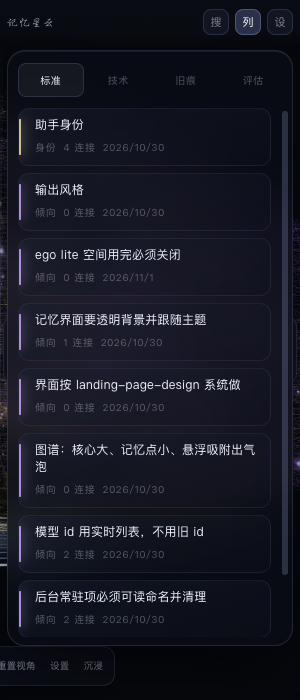
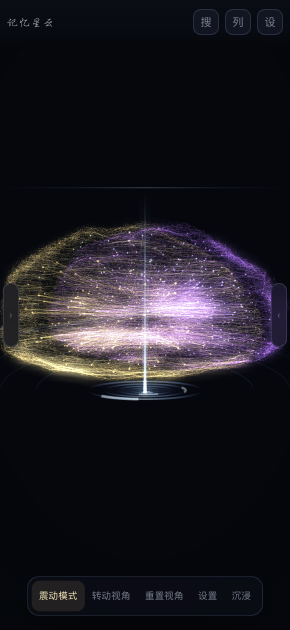
feat(panel): 默认只显示光脑，相机按窗口自适应
- 左右两栏默认收起（localStorage 里没有用户选择时），进来先看到完整的大脑
- 顶栏不再只在紧凑尺寸出现：只要两栏都收着就显示「记忆星云 · N 条记忆 + 搜/列/设」，
  大屏也一样，边缘把手同时保留
- 相机距离改成按包围盒反解：竖长窗口贴宽度、宽屏贴高度，两边都留 6~14% 余量，
  不再用固定的 distScale 插值；滚轮缩放改为独立系数（0.45x~2.6x），重置视角一并归位
- 非紧凑尺寸下不再自动展开两栏，打开后保持

diff --git a/ui/nebula.html b/ui/nebula.html
@@ -127,11 +127,11 @@ h1 em{font-style:normal;color:var(--gold-hi);
 #dock button.on{color:var(--gold-hi);background:rgba(255,197,107,.11)}
 
 /* ---------- 紧凑顶栏（小窗口 / 设置页 iframe） ---------- */
-#compact{position:fixed;z-index:11;left:0;right:0;top:0;height:44px;padding:0 12px;
+#compact{position:fixed;z-index:15;left:0;right:0;top:0;height:44px;padding:0 12px;
   display:none;align-items:center;gap:10px;
   background:linear-gradient(180deg,rgba(8,13,22,.92),rgba(8,13,22,.55) 70%,transparent);
   backdrop-filter:blur(10px);-webkit-backdrop-filter:blur(10px)}
-body.compact #compact{display:flex}
+body.rails-hidden #compact{display:flex}
 #compact .cb{display:flex;align-items:baseline;gap:8px;margin-right:auto;min-width:0}
 #compact .cb b{font-size:13px;font-weight:400;letter-spacing:.10em;
   font-family:"Xingkai SC","STKaiti",serif;color:#DCE7F7;white-space:nowrap}
@@ -705,7 +705,7 @@ function attrib(p, name) { return gl.getAttribLocation(p, name); }
    ============================================================ */
 const GROUP = { shellDots: null, shellLines: null, memLines: null, memDots: null, flow: null, rings: null, stars: null };
 const memNodes = [];   // {id,title,kind,x,y,z,size,col,deg,sal}
-const cam = { yaw: 0.13, pitch: 0.085, dist: 2.78, spin: true, spinSpeed: 0.11,
+const cam = { yaw: 0.13, pitch: 0.085, zoom: 1, spin: true, spinSpeed: 0.11,
   yawTarget: null, shake: 0, pulse: 1 };
 let hovered = null, selected = null, query = '', activeKinds = null, showRetired = false;
 let projScale = 1000, W = 1, H = 1, DPR = 1;
@@ -1056,15 +1056,15 @@ function autoFit() {
   if (compact) {
     if (!uiTouched.right && !ui.right) { ui.right = true; changed = true; }
     if (!uiTouched.left && !ui.left) { ui.left = true; changed = true; }
-  } else {
-    if (!uiTouched.right) { const want = w < 1000; if (want !== ui.right) { ui.right = want; changed = true; } }
-    if (!uiTouched.left) { const want = w < 820; if (want !== ui.left) { ui.left = want; changed = true; } }
   }
+  // 非紧凑尺寸下不再自动展开两栏：默认就是只显示光脑，
+  // 由用户从顶栏或边缘把手打开，打开后一直保持。
   if (changed) applyCollapse();
   const st = document.querySelector('#cstat');
   if (st) st.textContent = memNodes.filter((m) => m.id !== '__me__').length + ' 条记忆';
 }
-const layout = { shiftX: 0, distScale: 1, dist: 2.78, tShiftX: 0, tDistScale: 1 };
+const BRAIN_W = 2.22, BRAIN_H = 1.98;   // 含光环与余量的包围盒（世界单位）
+const layout = { shiftX: 0, dist: 3.2, tShiftX: 0, tDist: 3.2 };
 
 function updateLayout() {
   const L = document.querySelector('#left');
@@ -1075,10 +1075,14 @@ function updateLayout() {
   const rw = hideR ? 0 : (R && R.offsetWidth ? R.offsetWidth + 20 : 0);
   const avail = Math.max(300, W - lw - rw);
   layout.tShiftX = ((lw + (W - rw)) / 2 - W / 2) / (W / 2);
-  // 侧栏越少，画面越开阔；两个基准点：双栏 1.22、全宽 1.39
-  const fill = clamp((avail / W - 0.5) / 0.5, 0, 1);
-  // 小窗口里画面本来就只有几百像素，再拉远就看不见了
-  layout.tDistScale = ui.compact ? (1.02 + 0.14 * fill) : (1.22 + 0.17 * fill);
+  // 直接按"大脑包围盒刚好放进可用区域"反解相机距离：
+  // 竖长窗口按宽度贴边，宽屏按高度贴边，两边都留一点余量。
+  const availW = Math.max(240, W - lw - rw);
+  const availH = Math.max(200, H);
+  const projCss = H / (2 * Math.tan((38 * Math.PI / 180) / 2));
+  const dW = (BRAIN_W * projCss) / (availW * 0.94);
+  const dH = (BRAIN_H * projCss) / (availH * 0.86);
+  layout.tDist = Math.max(1.6, Math.max(dW, dH));
   const root = document.documentElement;
   root.style.setProperty('--scene-shift', (layout.tShiftX * W / 2).toFixed(1) + 'px');
   root.style.setProperty('--rail-right', (hideR ? 0 : (R && R.offsetWidth ? R.offsetWidth + 20 : 0)) + 'px');
@@ -1088,6 +1092,7 @@ function applyCollapse() {
   document.body.classList.toggle('right-collapsed', ui.right);
   document.body.classList.toggle('focus-mode', ui.focus);
   document.body.classList.toggle('compact', ui.compact);
+  document.body.classList.toggle('rails-hidden', ui.left && ui.right && !ui.focus);
   const cl = document.querySelector('#cList'), cs = document.querySelector('#cSearch');
   if (cl) cl.classList.toggle('on', !ui.right);
   if (cs) cs.classList.toggle('on', !ui.left);
@@ -1108,9 +1113,8 @@ function mvpNow() {
   // 相机随侧栏状态平滑过渡，避免跳变
   const k = clamp((state.dt || 0.016) * 6.5, 0.02, 1);
   layout.shiftX += (layout.tShiftX - layout.shiftX) * k;
-  layout.distScale += (layout.tDistScale - layout.distScale) * k;
-  const dist = cam.dist * layout.distScale;
-  layout.dist = dist;
+  layout.dist += (layout.tDist - layout.dist) * k;
+  const dist = layout.dist * (cam.zoom || 1);
   const jx = cam.shake ? Math.sin(performance.now() * 0.0013) * cam.shake : 0;
   const jy = cam.shake ? Math.cos(performance.now() * 0.0009) * cam.shake * 0.6 : 0;
   viewMatrix = M4.mul(M4.trans(0, 0, -dist), M4.mul(M4.rotX(cam.pitch + jy), M4.rotY(cam.yaw + jx)));
@@ -1451,7 +1455,7 @@ canvas.addEventListener('pointerup', (e) => {
 canvas.addEventListener('pointerleave', () => { hovered = null; hideBubble(); });
 canvas.addEventListener('wheel', (e) => {
   e.preventDefault();
-  cam.dist = clamp(cam.dist * (e.deltaY > 0 ? 1.08 : 0.925), 1.7, 8);
+  cam.zoom = clamp((cam.zoom || 1) * (e.deltaY > 0 ? 1.08 : 0.925), 0.45, 2.6);
 }, { passive: false });
 
 function showBubble(m, x, y) {
@@ -1569,7 +1573,7 @@ function bindUI() {
     const sb = $('#spin'); if (sb) sb.classList.remove('on');
   };
   $('#reset').onclick = () => {
-    cam.yawTarget = null; cam.yaw = 0.13; cam.pitch = 0.085; cam.dist = 2.78;
+    cam.yawTarget = null; cam.yaw = 0.13; cam.pitch = 0.085; cam.zoom = 1;
     cam.spin = true; const sb = $('#spin'); if (sb) sb.classList.add('on');
   };
   const edgeL = $('#edgeL'), edgeR = $('#edgeR');
@@ -1727,6 +1731,10 @@ async function boot() {
   bindUI();
   bindSettings();
   // 恢复用户手动设置；自动折叠不写盘，避免污染
+  // 默认只看光脑：两栏收起，顶栏与边缘把手作为入口。
+  // 之后以用户的显式操作为准（localStorage）。
+  ui.left = true;
+  ui.right = true;
   try {
     const saved = JSON.parse(localStorage.getItem('mem-nebula-ui') || 'null');
     if (saved && typeof saved === 'object') {
